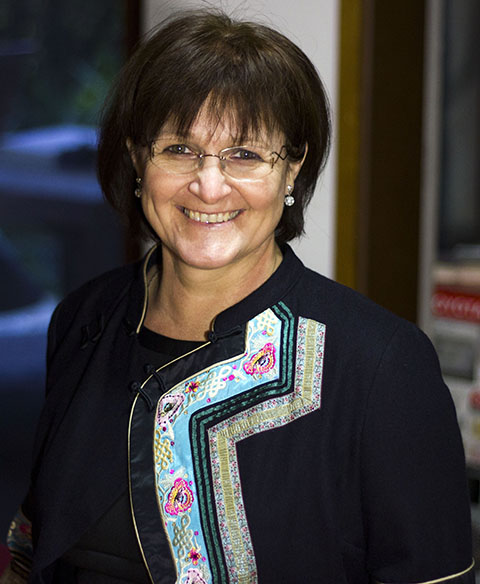
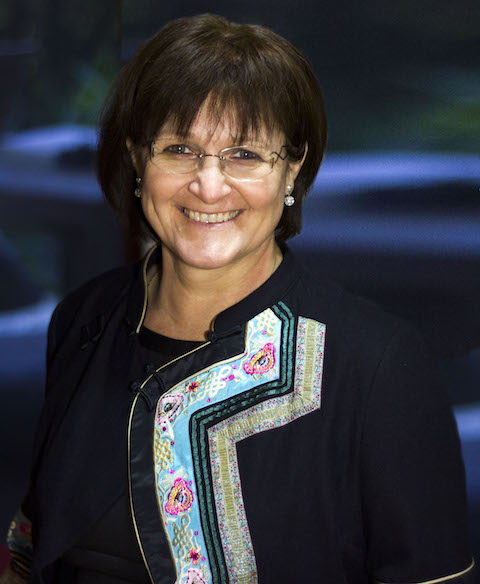
New image

diff --git a/index.html b/index.html
@@ -129,7 +129,7 @@
 
 <header class="header">
 	<h1 class="title">Julija Pelc</h1>
-	<div style="width: 100%; background: #eee; text-align: center; padding: 0; height: 365px;"><img width="300" src="/public/img/julija_pelc_profile.jpg"></div>
+	<div style="width: 100%; background: #eee; text-align: center; padding: 0; height: 365px;"><img width="300" src="/public/img/julija_pelc_profile.jpg?2"></div>
 	<p class="motto">Ne bojuj se z vetrom, ujemi ga v jadra :)</p>
 
 	<!--<img width="410px" src="/public/img/julija_pelc_profile.jpg" style="border: 10px solid black;">-->
